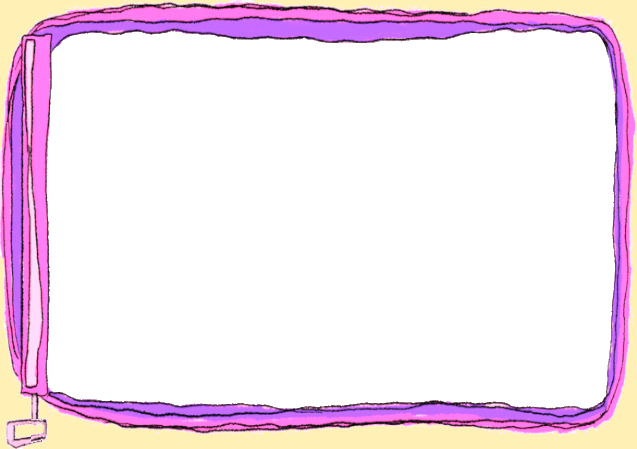
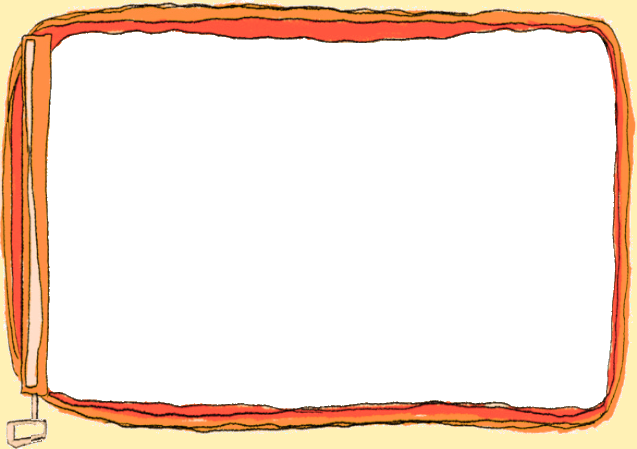
Make the border a bit more sensible

Changed region(s): [[0.0, 0.0, 1.0, 1.0]]

diff --git a/frontend/main.css b/frontend/main.css
@@ -126,7 +126,8 @@ section {
 #map {
     position: relative;
     width: 50%;
-    min-height: 20rem;
+    /*min-height: 20rem;*/
+    aspect-ratio: calc(16/9);
 }
 
 #map_border {
@@ -137,16 +138,17 @@ section {
     height: 100%;
     border-image-source: url("./media/border.png");
     border-image-slice: 54 65 65 65;
-    border-image-width: 54px 65px 65px 65px;
+    border-image-width: min(35px, 5vw) min(40px, 6vw);
     z-index: 1;
     pointer-events: none;
 }
 
 iframe {
     position: absolute;
-    width: calc(100% - 54px);
-    height: calc(100% - 64px);
-    margin: 32px;
+    width: calc(100% - calc(0.6 * min(40px, 6vw)));
+    height: calc(100% - calc(0.5 * min(35px, 5vw)));
+    margin-left: calc(0.6 * min(40px, 6vw));
+    margin-top: calc(0.5 * min(35px, 5vw));
     z-index: 0;
 }
 
